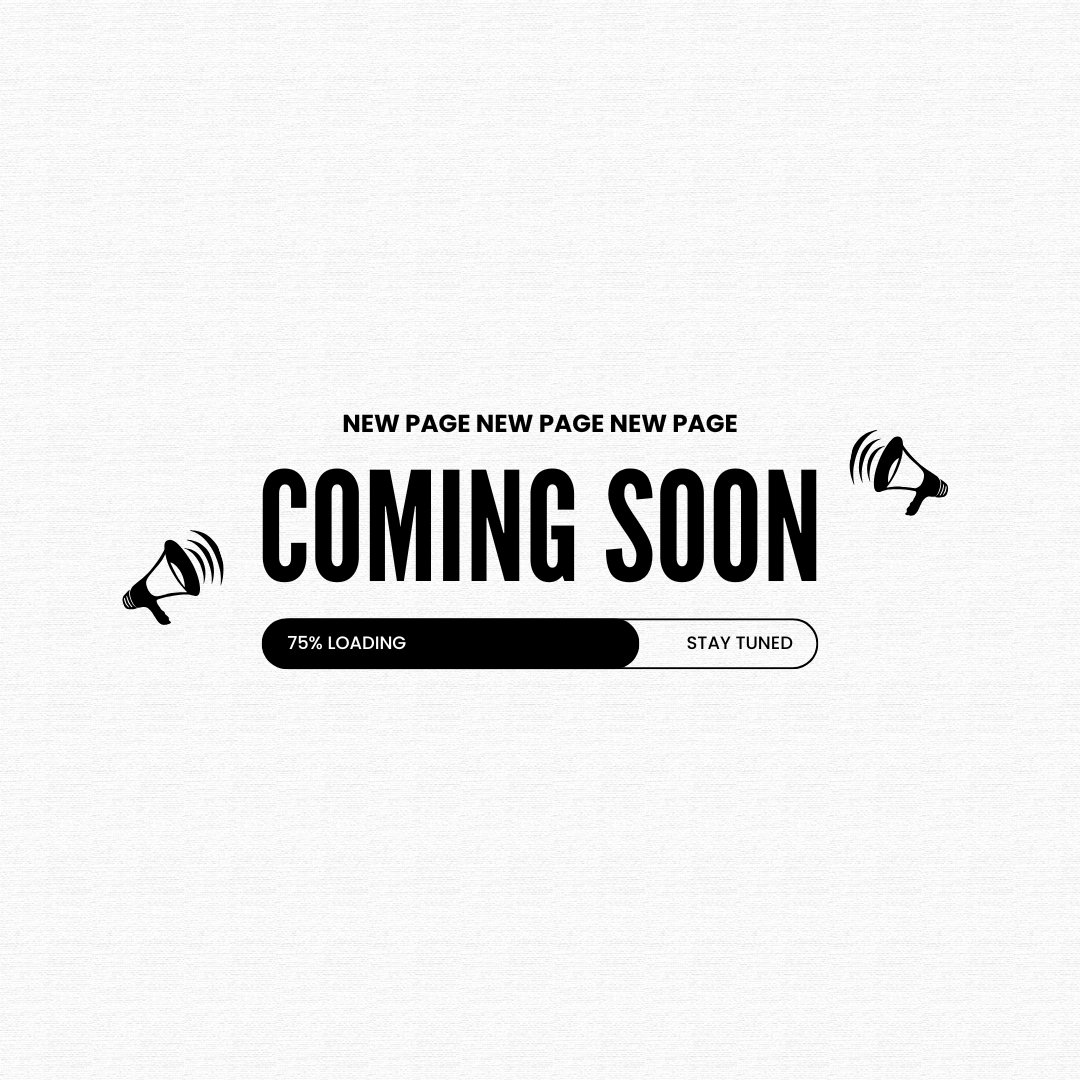
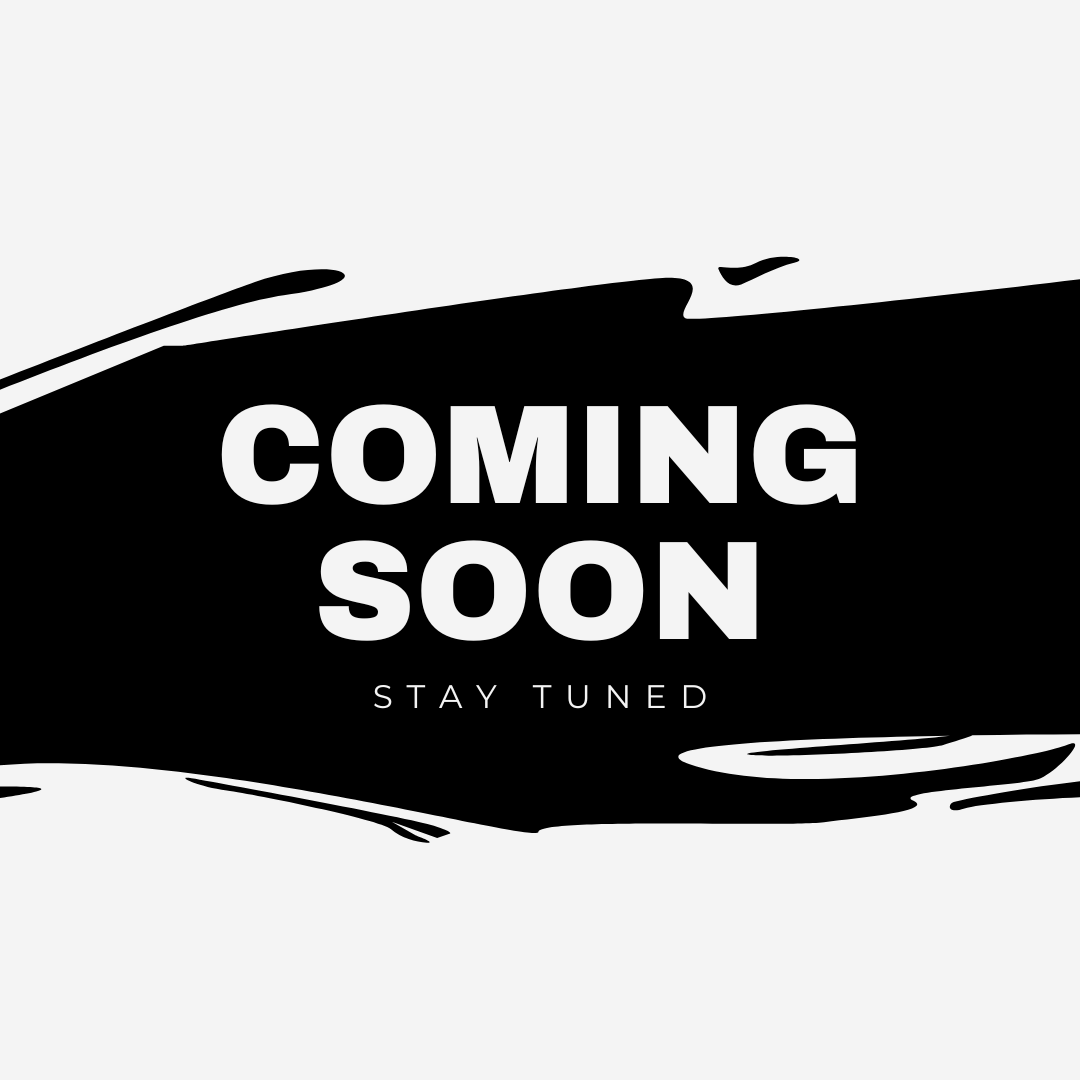
minor adjustments
adjusted the coming soon image for the about page

diff --git a/about.html b/about.html
@@ -26,13 +26,7 @@
                 </nav>
             </div>
         </header>
-        <div class="bgimg">
-            <div class="middle">
-                <h1>COMING SOON</h1>
-                <hr>
-                <p>Date Coming Soon</p>
-            </div>
-        </div> 
+        <div class="bgimg"></div> 
     <footer>
         <div class="copyright">
             A Dash'll Do Ya &copy; 2025 | All rights reserved.

diff --git a/css/contact.css b/css/contact.css
@@ -128,7 +128,7 @@ html {
 
 /* Styling for the hero banner */
 .hero-section {
-  background: url(../imgs/contact-us.png); /* Try to find a better image for this */
+  background: url(../imgs/a-dash-ll-do-ya-banner.png); /* Try to find a better image for this */
   height: 60vh;
   width: 100%;
   aspect-ratio: 16 / 9;
